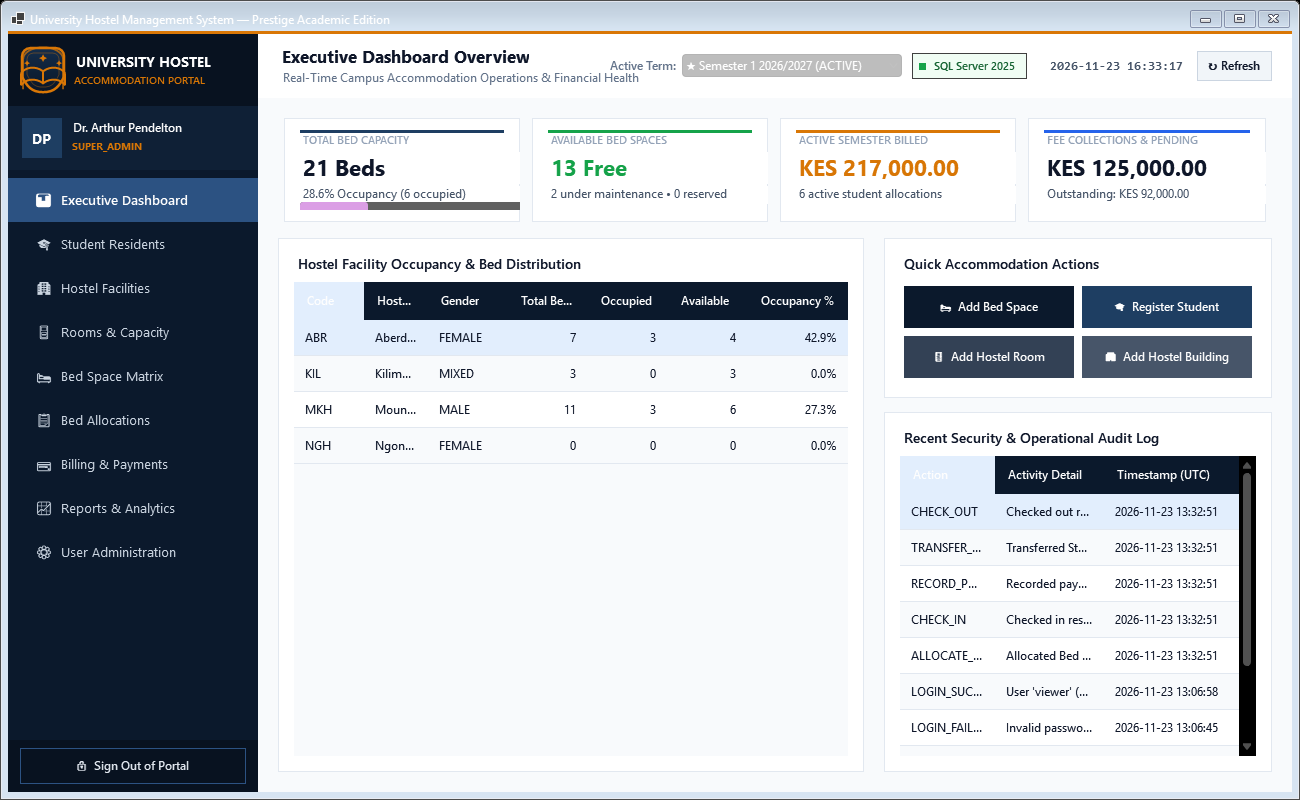
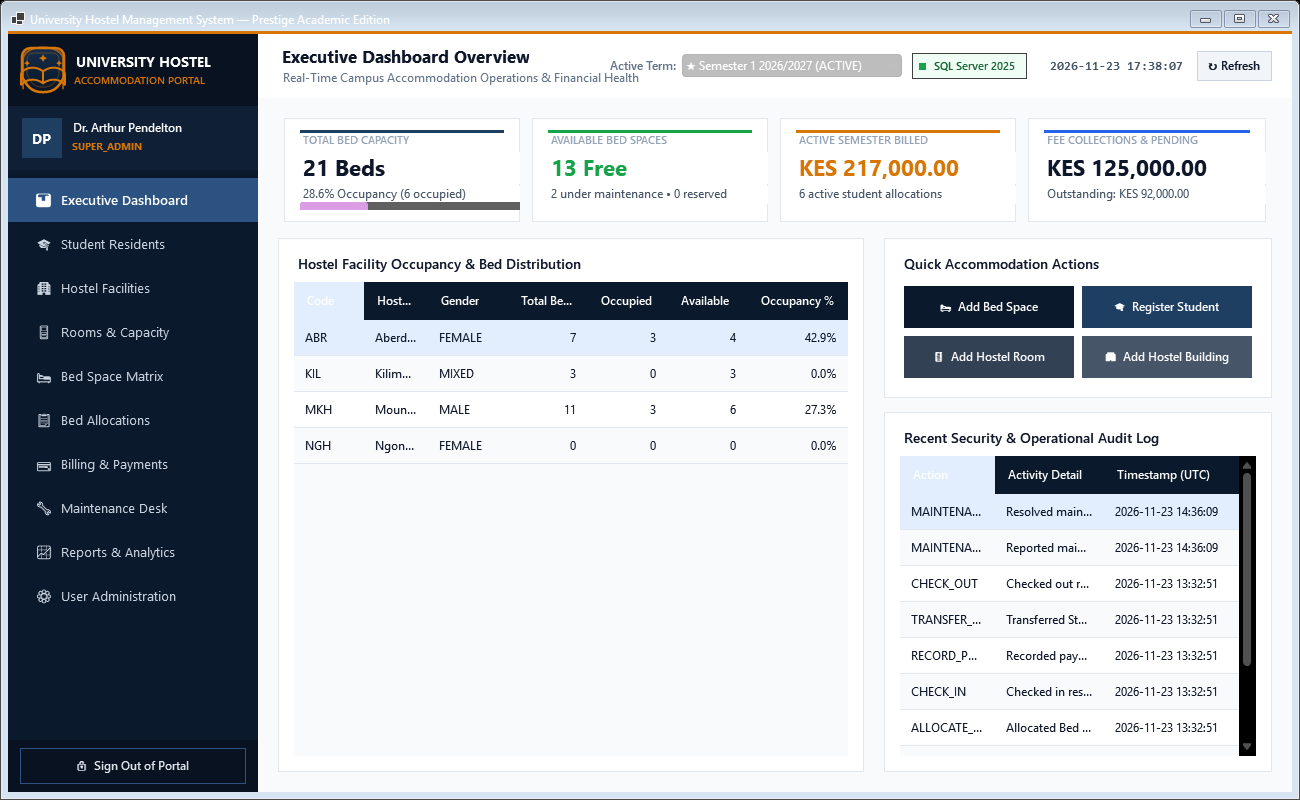
docs: update system documentation and add Phase 5 interface screenshots

diff --git a/README.md b/README.md
@@ -49,6 +49,10 @@ graph TD
 | **Bed Space Matrix** | ![Bed Matrix](docs/screenshots/beds_matrix.png) |
 | **Bed Allocations Desk** | ![Bed Allocations](docs/screenshots/allocations_matrix.png) |
 | **Bursar Financial Ledger** | ![Bursar Billing](docs/screenshots/billing_ledger.png) |
+| **Hostel Maintenance Incident Desk** | ![Maintenance Desk](docs/screenshots/maintenance_desk.png) |
+| **Institutional Reports & Analytics** | ![Reports Analytics](docs/screenshots/reports_analytics.png) |
+| **Staff Administration & RBAC Vault** | ![Users Administration](docs/screenshots/users_administration.png) |
+| **Room Photograph Gallery** | ![Room Gallery](docs/screenshots/room_gallery.png) |
 | **Official Electronic Receipt** | ![Receipt Preview](docs/screenshots/receipt_preview.png) |
 | **Student Directory** | ![Students Directory](docs/screenshots/students_directory.png) |
 | **Login Vault** | ![Login Screen](docs/screenshots/login_screen.png) |
@@ -64,8 +68,21 @@ graph TD
    - `UQ_active_bed_per_semester`: Enforces that two students cannot occupy the same bed in the same academic semester.
    - `UQ_active_student_per_semester`: Enforces that one student cannot hold multiple active bed spaces in the same semester.
    - Bed status strictly transitions: `AVAILABLE` ➔ `OCCUPIED` ➔ `CHECKED_OUT` (or `TRANSFERRED`).
-4. **Maintenance Clearance Gating**: Beds under `MAINTENANCE` cannot be allocated. During student check-out, damage assessments can release a bed directly to maintenance with issue tracking.
-5. **Bursar Financial Ledger**: Supports multi-channel partial payments (`MPESA`, `BANK`, `CASH`, `OTHER`) with auto-reconciled student arrears.
+4. **Maintenance Desk & Automatic Bed Locking**:
+   - When an incident is reported on a bed, the bed's status is transactionally updated to `MAINTENANCE`.
+   - Database triggers enforce that any allocation attempted on a `MAINTENANCE` bed is rejected immediately.
+   - Upon incident resolution and technician sign-off, the bed space can be automatically restored to `AVAILABLE`.
+5. **Physical Asset Management Pipeline**:
+   - High-resolution room photographs and repair evidence are managed on disk under `Assets/rooms/` and `Assets/maintenance/`.
+   - Metadata and relative paths are stored in `dbo.room_images` with transactional primary photo assignment.
+   - Images are loaded via in-memory stream buffers to eliminate GDI+ OS file locking issues.
+6. **Institutional Reporting & Export Engine**:
+   - Four specialized analytical reports: Room Occupancy Schedule, Resident Allocation Ledger, Fee Collection & Arrears Schedule, and Facility Defaulters/Maintenance Register.
+   - Features standard `PrintDocument` high-resolution vector rendering with zoomable preview modal and standalone printable HTML export bearing the University Accommodation Board crest.
+7. **Staff Administration & Role-Based Access Control (RBAC)**:
+   - 5 Granular Roles: `SUPER_ADMIN`, `ADMIN`, `ACCOMMODATION_OFFICER`, `FINANCE_OFFICER`, and `VIEWER`.
+   - Enterprise PBKDF2-SHA256 password security with random salt generation.
+   - Immutable system audit trail in `dbo.activity_logs` recording user actions, IP addresses, entity references, and change descriptions.
 
 ---
 
@@ -97,6 +114,9 @@ dotnet run --no-build -- --test-dashboard
 
 # Phase 4: Bed allocations, rate snapshotting, check-in, transfers & billing ledger
 dotnet run --no-build -- --test-phase4
+
+# Phase 5: Room photograph assets, maintenance bed locking, reporting & RBAC audit trail
+dotnet run --no-build -- --test-phase5
 
 # Render and capture UI screen previews
 dotnet run --no-build -- --capture-screens
